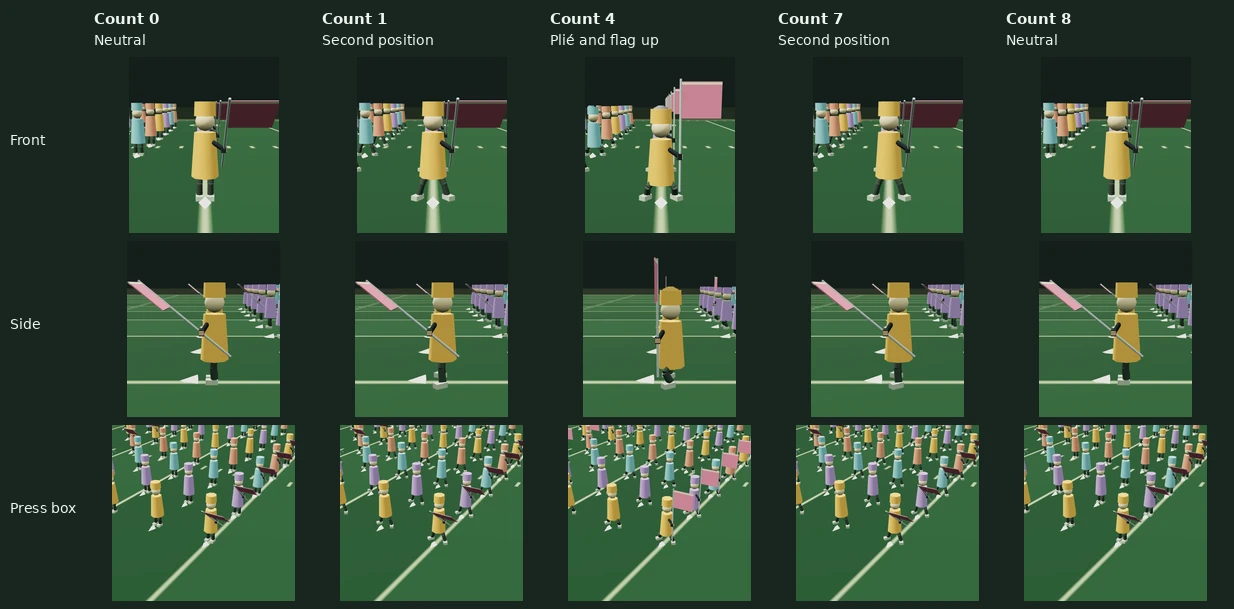
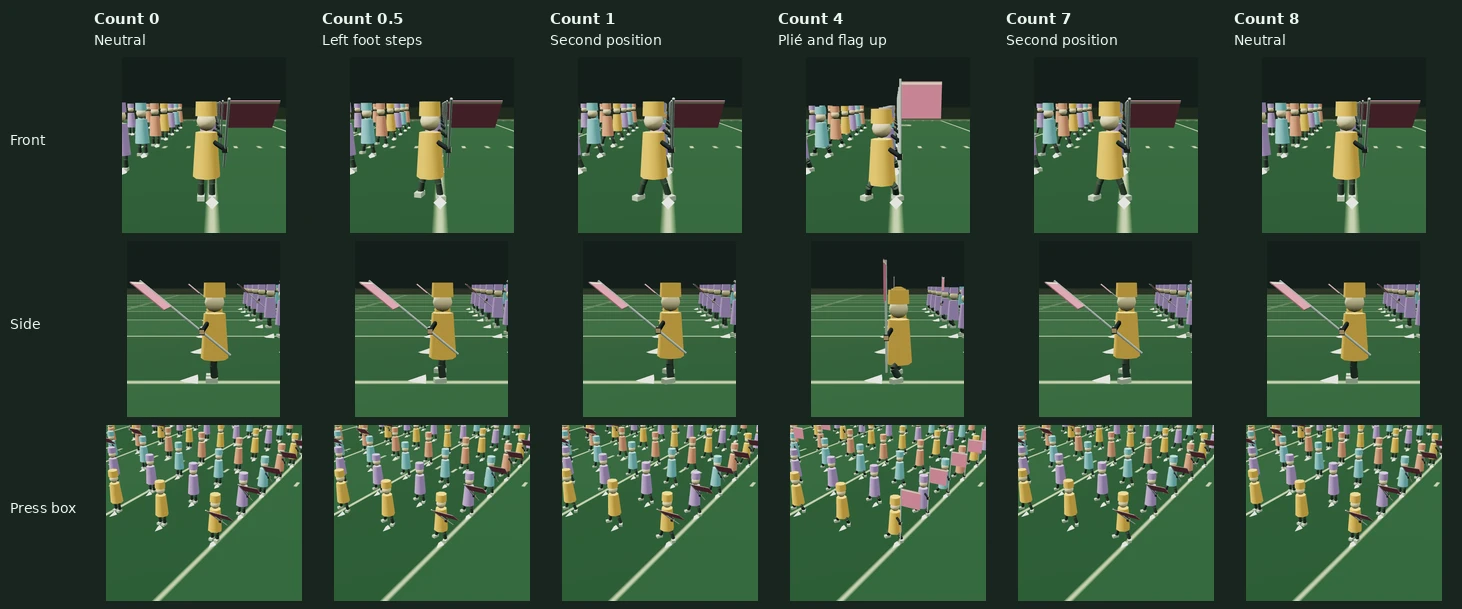
Anchor second position to the right foot

diff --git a/src/choreography.test.ts b/src/choreography.test.ts
@@ -4,6 +4,7 @@ import { Matrix4, Scene, Vector3, type InstancedMesh } from 'three';
 import { compileChoreography, neutralCuePose, sampleChoreography, validateChoreography } from './choreography';
 import { AssetBatches, AssetResources } from './components/3d/assetBatches';
 import { sampleCueLegPose } from './components/legMotion';
+import { LegMotionMeshes } from './components/legMotionMeshes';
 import { countToSeconds, parseProject, sampleProject, sampleTimeline, secondsToCount, serializeProject } from './domain';
 import { createEditorStore } from './editor/store';
 import { createLegMotionFixture } from './examples/legMotionFixture';
@@ -25,13 +26,49 @@ describe('count-timed choreography', () => {
     expect(poseAt(4)).toEqual({ spread: 1, turnout: 35, drop: .13 });
     expect(poseAt(7)).toEqual(poseAt(1));
     expect(poseAt(8)).toEqual(neutralCuePose);
-    const straight = sampleCueLegPose(poseAt(1)), bent = sampleCueLegPose(poseAt(4));
+    const straight = sampleCueLegPose(poseAt(1)).legs, bent = sampleCueLegPose(poseAt(4)).legs;
     expect(bent.map(leg => leg.ankle)).toEqual(straight.map(leg => leg.ankle));
     expect(bent.map(leg => leg.toeYaw)).toEqual(straight.map(leg => leg.toeYaw));
     expect(bent[0].hip[1]).toBeLessThan(straight[0].hip[1]);
     expect(bent[0].knee[0]).toBeLessThan(straight[0].knee[0]);
     expect(bent[1].knee[0]).toBeGreaterThan(straight[1].knee[0]);
     expect([0, 2.5, 4, 6.5, 7].map(count => sample(project, count).flags.get(id) ?? 0)).toEqual([0, .5, 1, .5, 0]);
+  });
+
+  it('keeps the right shoe pivot on the drill dot while the left foot steps out and returns', () => {
+    const samples = [
+      { spread: 0, turnout: 0, drop: 0 },
+      { spread: .5, turnout: 15, drop: 0 },
+      { spread: 1, turnout: 30, drop: 0 },
+      { spread: 1, turnout: 30, drop: .11 },
+      { spread: .5, turnout: 15, drop: 0 },
+      { spread: 0, turnout: 0, drop: 0 },
+    ].map(sampleCueLegPose);
+    const scene = new Scene(), mesh = new LegMotionMeshes(scene, 16);
+    mesh.begin(16, 1);
+    const shoes = scene.children[1] as InstancedMesh;
+    const matrix = new Matrix4();
+    for (const { legs: [left, right], bodyX } of samples) {
+      expect(right.ankle).toEqual([0, .14, 0]);
+      expect(bodyX).toBe(left.ankle[0] / 2);
+      for (const yaw of [0, Math.PI / 2, Math.PI * 1.25]) {
+        mesh.setLeg(1, 12, 18, yaw, right);
+        shoes.getMatrixAt(1, matrix);
+        const pivot = new Vector3(0, .045, -.051).applyMatrix4(matrix);
+        expect(pivot.x).toBeCloseTo(12, 5);
+        expect(pivot.y).toBeCloseTo(.14, 5);
+        expect(pivot.z).toBeCloseTo(18, 5);
+      }
+    }
+    const neutral = samples[0].legs[0].ankle;
+    const stepping = samples[1].legs[0].ankle;
+    const planted = samples[2].legs[0].ankle;
+    expect(stepping[0]).toBeLessThan(neutral[0]);
+    expect(stepping[1]).toBeGreaterThan(neutral[1]);
+    expect(planted[0]).toBeCloseTo(neutral[0] - .32);
+    expect(planted[1]).toBe(neutral[1]);
+    expect(samples[3].legs[0].ankle).toEqual(planted);
+    expect(samples[5].legs[0].ankle).toEqual(neutral);
   });
 
   it('samples the same absolute phase after playback, reverse scrub, looping and tempo conversion', () => {

diff --git a/src/components/Stage3D.tsx b/src/components/Stage3D.tsx
@@ -168,13 +168,16 @@ function updatePerformers(state: SceneState, positions: Record<string, Point>, f
     const z = point ? point.y - height / 2 : 0;
     const visible = point ? 1 : 0;
     const stance = hasStance(performer.id) ? cues?.lowerBody.get(performer.id) ?? neutralCuePose : undefined;
+    const cuePose = point && stance ? sampleCueLegPose(stance) : undefined;
     const bodyHeight = -(stance?.drop ?? 0);
     const facing = facingAt(facings, performer.id);
     const angle = THREE.MathUtils.degToRad(facing ?? 0);
     const sin = Math.sin(angle), cos = Math.cos(angle);
+    const bodyX = x + (cuePose?.bodyX ?? 0) * cos;
+    const bodyZ = z - (cuePose?.bodyX ?? 0) * sin;
     transform.rotation.set(0, angle, 0);
     transform.scale.setScalar(visible);
-    transform.position.set(x, 0.91 + bodyHeight, z);
+    transform.position.set(bodyX, 0.91 + bodyHeight, bodyZ);
     transform.updateMatrix();
     state.bodies.setMatrixAt(index, transform.matrix);
     transform.position.y = 1.53 + bodyHeight;
@@ -184,9 +187,9 @@ function updatePerformers(state: SceneState, positions: Record<string, Point>, f
     transform.updateMatrix();
     state.caps.setMatrixAt(index, transform.matrix);
     if (rig) {
-      const pose = !point ? undefined : stance ? sampleCueLegPose(stance) : legMotion
+      const pose = cuePose?.legs ?? (point && legMotion
         ? sampleLegPose(legMotion.count, point, legMotion.nextPositions[performer.id], facing, legMotion.markTime?.has(performer.id) ?? false)
-        : undefined;
+        : undefined);
       rig.setLeg(index * 2, x, z, angle, pose?.[0]);
       rig.setLeg(index * 2 + 1, x, z, angle, pose?.[1]);
     }
@@ -214,7 +217,7 @@ function updatePerformers(state: SceneState, positions: Record<string, Point>, f
     }
 
     if (point && equipmentEnabled && performer.equipment) {
-      const placement = { at: [x, bodyHeight, z] as const, angle, flagColor: performer.appearance?.flagColor };
+      const placement = { at: [bodyX, bodyHeight, bodyZ] as const, angle, flagColor: performer.appearance?.flagColor };
       if (performer.equipment === 'flag' && cues?.flagIds.has(performer.id)) {
         const pitch = (1 - (cues.flags.get(performer.id) ?? 0)) * (50 * Math.PI / 180);
         assets.push({ ...placement, parts: flagHolderParts }, { ...placement, parts: flagPoleParts, tilt: { pivot: flagGrip, pitch } });
@@ -224,10 +227,10 @@ function updatePerformers(state: SceneState, positions: Record<string, Point>, f
       const role = equipmentEnabled && performer.equipment ? undefined : performer.role;
       transform.rotation.set(0, angle, 0);
       if (role === 'guard') {
-        transform.position.set(x + .35 * cos, 1.48 + bodyHeight, z - .35 * sin);
+        transform.position.set(bodyX + .35 * cos, 1.48 + bodyHeight, bodyZ - .35 * sin);
         transform.scale.set(.45 * visible, .24 * visible, .07 * visible);
       } else {
-        transform.position.set(x + .33 * sin, 1.05 + bodyHeight, z + .33 * cos);
+        transform.position.set(bodyX + .33 * sin, 1.05 + bodyHeight, bodyZ + .33 * cos);
         transform.scale.set(.33 * visible, .18 * visible, .34 * visible);
       }
       if (!role) transform.scale.setScalar(0);

diff --git a/src/components/legMotion.ts b/src/components/legMotion.ts
@@ -51,20 +51,24 @@ export function sampleLegPose(count: number, position: Point, next: Point | unde
   return [leg(-1), leg(1)];
 }
 
-/** The stance opens before flexion, so the foot pivots and ankles stay put during the bend. */
-export function sampleCueLegPose({ spread, turnout, drop }: LowerBodyCuePose): readonly [LegPose, LegPose] {
+/** The right ankle is the drill dot. The left foot steps out before the bend. */
+export function sampleCueLegPose({ spread, turnout, drop }: LowerBodyCuePose) {
+  const leftAnkleX = -2 * halfStance - .32 * spread;
+  const bodyX = leftAnkleX / 2;
   const leg = (side: number): LegPose => {
-    const hipX = side * halfStance;
-    const ankleX = side * (halfStance + .16 * spread);
+    const hipX = bodyX + side * halfStance;
+    const ankleX = side < 0 ? leftAnkleX : 0;
+    const lift = side < 0 && spread > 0 && spread < 1 ? .07 * Math.sin(Math.PI * spread) : 0;
+    const ankleY = ankleHeight + lift;
     const hipY = hipHeight - drop;
     const yaw = side * turnout * Math.PI / 180;
     const kneeBend = .027 + drop * .63;
     return {
       hip: [hipX, hipY, 0],
-      knee: [(hipX + ankleX) / 2 + Math.sin(yaw) * kneeBend, (hipY + ankleHeight) / 2, Math.cos(yaw) * kneeBend],
-      ankle: [ankleX, ankleHeight, 0],
+      knee: [(hipX + ankleX) / 2 + Math.sin(yaw) * kneeBend, (hipY + ankleY) / 2, Math.cos(yaw) * kneeBend],
+      ankle: [ankleX, ankleY, 0],
       toeYaw: yaw,
     };
   };
-  return [leg(-1), leg(1)];
+  return { legs: [leg(-1), leg(1)] as const, bodyX };
 }

diff --git a/docs/evidence/choreography/README.md b/docs/evidence/choreography/README.md
@@ -2,11 +2,11 @@
 
 The [editor workflow](../../USER_GUIDE.md#choreography-cues) adds second position, plié in second position, and flag-up cues. The cue editor uses the current selection for additions. Editing retains a cue's explicit members unless the designer chooses **Use current selection**. A cue can be reviewed at its peak from the same dialog. Add, edit, and remove each use a named undo step.
 
-![Neutral, second position, plié, second position and neutral, with concurrent flag motion](phrase.webp)
+![Neutral, left-foot step, second position, plié, second position and neutral, with concurrent flag motion](phrase.webp)
 
 ## Pose and timing
 
-Second position widens the stance by 0.16 yards per foot and turns each foot out from 10° to 45°. Plié opens into second position during the first half of its entry transition. The second half bends the knees in the direction of the toes and lowers the hips and torso by 0.04 to 0.14 yards. The shoe pivots keep their local positions and turnout through the bend, hold, and rise. The final half of the exit closes the feet to neutral. Articulation is illustrative and follows the authored performer root during travel.
+The right foot stays on the authored dot and turns out in place. The left foot lifts slightly and steps 0.32 yards outward from neutral. Each foot turns out from 10° to 45°, and the torso shifts over the midpoint of the stance. Plié opens into second position during the first half of its entry transition. The second half bends the knees in the direction of the toes and lowers the hips and torso by 0.04 to 0.14 yards. Both feet stay planted through the bend, hold, and rise. The final half of the exit returns the left foot to neutral. The stance follows the sampled drill dot during travel.
 
 For performers with authored flag cues, the carry pose pitches the pole 50° forward. Flag-up raises it to vertical, then returns it to carry. The pole and fabric rotate around the existing grip in the performer's facing frame. The sleeve, hand, and grip stay together through the body drop. Performers with no flag cues retain their static equipment pose. If a performer changes equipment after the cue was authored, the editor marks that member inactive and retains the cue for reassignment or later reuse.
 
@@ -28,9 +28,9 @@ Reproduce with `pnpm dev`, then run `node scripts/choreography-browser-qa.cjs` f
 
 | Cast | Poses | Draw calls | Triangles | Samples | Median frame interval | p95 |
 | --- | --- | ---: | ---: | ---: | ---: | ---: |
-| 64 | Static | 12 | 21,264 | 22 | 199.9 ms | 383.4 ms |
-| 64 | Articulated | 13 | 26,384 | 17 | 200.0 ms | 533.2 ms |
-| 500 | Static | 12 | 166,016 | 12 | 333.4 ms | 783.3 ms |
-| 500 | Articulated | 13 | 206,016 | 12 | 383.3 ms | 583.2 ms |
+| 64 | Static | 12 | 21,264 | 22 | 183.3 ms | 366.7 ms |
+| 64 | Articulated | 13 | 26,384 | 21 | 183.2 ms | 216.7 ms |
+| 500 | Static | 12 | 166,016 | 14 | 283.3 ms | 550.0 ms |
+| 500 | Articulated | 13 | 206,016 | 14 | 333.4 ms | 600.0 ms |
 
 The [raw browser report](browser-report.json) records the backend and interaction results.

diff --git a/docs/USER_GUIDE.md b/docs/USER_GUIDE.md
@@ -181,6 +181,8 @@ Select performers on the field or in Cast. Open **Choreography cues** in **Set p
 
 Lower-body cues share one track. Flag cues share a second track and can overlap a lower-body cue. Use **Review** on a cue to see its peak in 3D. Choose **Detailed** 3D quality to see the poses and flag animation. Add, edit, and remove are undoable project edits. A cue keeps its explicit performers even when the selection changes. Remove or adjust cues before editing a move's count below a cue's end or changing its endpoints.
 
+In second position and plié, the right foot stays on the drill dot and the left foot steps out. Both feet stay planted during the bend and rise.
+
 ### 3D window
 
 In the desktop app, choose **Open 3D window** (the arrow-out-of-a-box button beside **3D preview**), its command palette entry, or `Shift+T` to show the 3D preview in a separate window, for example on a second display. It follows the editor's set, count, playback, selection highlighting, previews and any 2D drag in progress, and its top bar shows the set, count and mode. The window is read-only: its camera buttons, quality choice and orbit/pan/zoom work, but clicking a performer does not change the selection. Edit positions in the main window.
